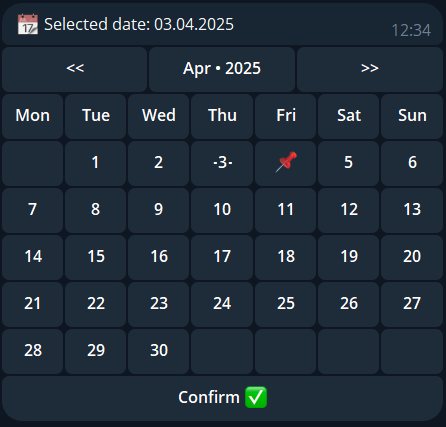
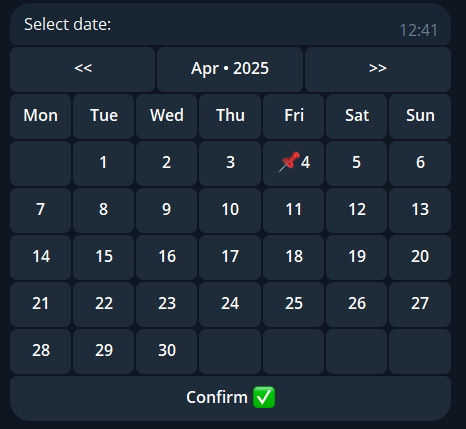
fix format and image

diff --git a/datepicker/datepicker.py b/datepicker/datepicker.py
@@ -27,7 +27,7 @@ class DatePicker:
       blockedDays = [],
       blockedButton:str = '❌',
       markedDays = [],
-      markedFormat:str = '📌',
+      markedFormat:str = '📌{}',
       emptyButton:str = '',
       dateFormat:str = "%d.%m.%Y",
       yearRange=120,
